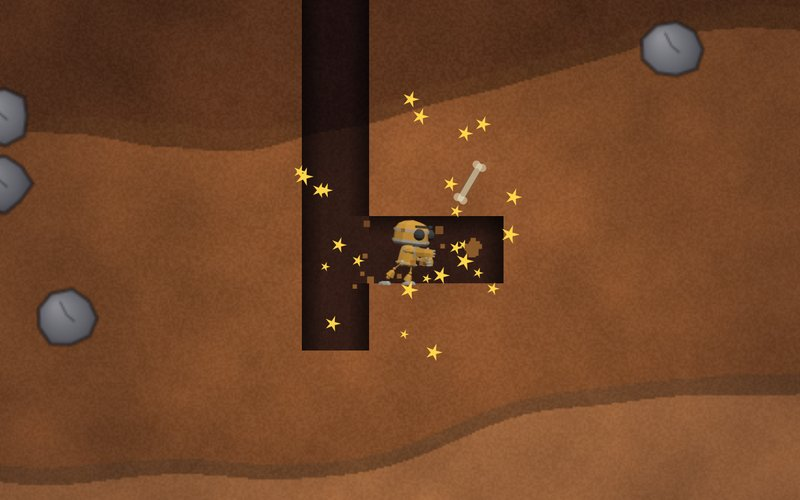
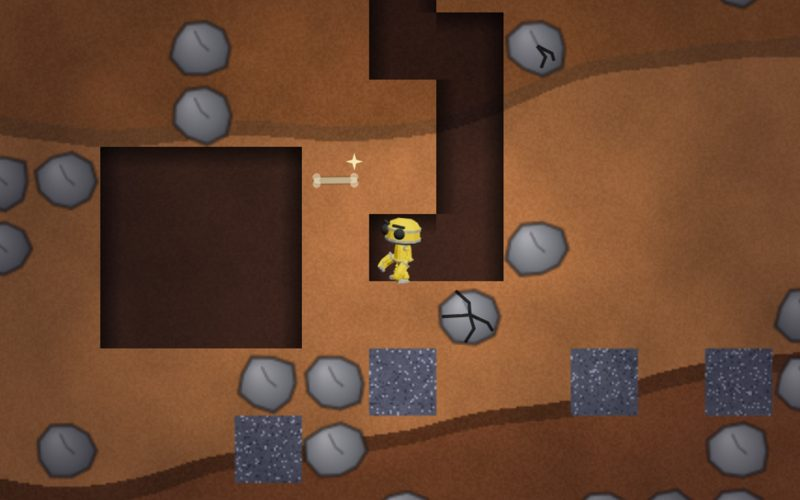
Forsiden: spillkortbildene for Era Defenders og Fossil Zoo viser EVN-roboten
Bildene er tatt fra robot/era (0.20.0, piratskipet) og robot/fossil (0.7.5).
Publiseres sammen med eller etter de to spillene.

Claude-Session: https://claude.ai/code/session_01MHiEAxRHCBG5ApPNUV1V1h

diff --git a/index.html b/index.html
@@ -389,7 +389,7 @@
       <!-- Nytt spill? Kopier et spillkort og bytt lenke, bilde, navn, stikkord og tekst. -->
       <a class="spillkort k-era inn" style="--i:0" href="spill/eventyrspill/">
         <div class="bilde">
-          <img src="bilder/eventyr-kort.jpg" alt="Skjermbilde fra Era Defenders: piratskipet med basen og Piratkapteinen">
+          <img src="bilder/eventyr-kort.jpg" alt="Skjermbilde fra Era Defenders: EVN-roboten med piratlue og sverd i basen på piratskipet">
           <span class="avspill" aria-hidden="true"></span>
         </div>
         <div class="tekst">
@@ -415,7 +415,7 @@
 
       <a class="spillkort k-fossil inn" style="--i:2" href="spill/fossilspillet/">
         <div class="bilde">
-          <img src="bilder/fossilspillet.jpg" srcset="bilder/fossilspillet.jpg 800w, bilder/fossilspillet-1200.jpg 1200w" sizes="(max-width: 680px) 100vw, 400px" alt="Skjermbilde fra Fossil Zoo: robot-graveren finner et fossilbein i en tunnel">
+          <img src="bilder/fossilspillet.jpg" srcset="bilder/fossilspillet.jpg 800w, bilder/fossilspillet-1200.jpg 1200w" sizes="(max-width: 680px) 100vw, 400px" alt="Skjermbilde fra Fossil Zoo: EVN-roboten graver seg fram til et fossilbein i en tunnel">
           <span class="avspill" aria-hidden="true"></span>
         </div>
         <div class="tekst">

diff --git a/ENDRINGSLOGG.md b/ENDRINGSLOGG.md
@@ -6,7 +6,7 @@ er små – se på retning over flere uker, ikke på enkeltdager.
 
 | Dato | Hva | Spill | Kan påvirke |
 |---|---|---|---|
-| ikke publisert | **Forsiden (forslag): EVN-roboten som maskot.** Liten robot ved «Velg et spill» som vinker to ganger første gang i økta (WebP-stripe 38 kB, av ved redusert bevegelse); roboten i stedet for gutten i «Hvem står bak?»; robothodet ved «Siste nytt». Logo og «Laget av barn. For barn.» er uendret. Startkortene i spillene er ikke endret. | Forside | Ingen forventet effekt |
+| ikke publisert | **Forsiden (forslag): EVN-roboten som maskot.** Liten robot ved «Velg et spill» som vinker to ganger første gang i økta (WebP-stripe 38 kB, av ved redusert bevegelse); roboten i stedet for gutten i «Hvem står bak?»; robothodet ved «Siste nytt». Logo og «Laget av barn. For barn.» er uendret. Startkortene endres i spillgrenene, ikke her. Spillkortbildene for Era Defenders og Fossil Zoo viser EVN-roboten (tatt fra robot/era og robot/fossil); publiseres sammen med eller etter de to spillene. | Forside | Ingen forventet effekt |
 | 2026-11-02 ca. 22:05 | **Nytt spill: Dyrepatruljen v0.10.3** (Evens spill, navnet valgt av Even, publisering godkjent av Ivar). 3D-spill der man sniker seg innpå og fanger dyr som har gått seg vill med håv, i 15 verdener med 10 dyr hver; dyrene flytter inn i en dyrepark med naturområder, tog og gangbro. Ny mappe `spill/dyrepatruljen/`, nytt spillkort på forsiden (fire kort: fire kolonner på store skjermer, to på mellomstore, «Nytt»-merket flyttet fra Fossil Zoo). Statistikk: ny oppdager `dyrepatruljen` i statistikk.js (start = klikk på `#startBtn`), hendelsene `start-dyrepatruljen` og `spilletid-dyrepatruljen-*`. Felles startkort, «Start helt på nytt» og «Vil du avslutte?» som i de andre spillene; egen pause (ikke felles pause med spilletid og 🗺-kart ennå). Lagringsnøkkel `evn-dyrespillet-v1`. Helten er RobotExpressive (Tomás Laulhé/Quaternius, CC0) og GLTFLoader (three.js, MIT), begge lagt inn i fila; three.js r128 fra `vendor/`. Testet med CSP og nettstedslag: 0 CSP-brudd, 0 konsollfeil, axe-core uten funn (spill og forside), GoatCounter-start fyrer, Avslutt spør først, gamle lagringer lastes, nullstill virker, PC og iPhone 13-emulering. Ikke testet på ekte mobil; dyreparken med alle 150 dyr kan være tung på svake telefoner. Commit 5feffb2. | Dyrepatruljen, forside, statistikk.js | Nye starter og spilletid for Dyrepatruljen; kan gi litt færre klikk på de tre andre spillene |
 | 2026-11-02 ca. 12:50 | **Fossil Zoo v0.7.3: graveren er roboten fra Mørkeskogen 2.0** (Evens ønske, godkjent av Ivar). Spritesett tatt av 3D-modellen «RobotExpressive» (Tomás Laulhé/Quaternius, CC0) med animasjoner for å stå, gå, grave, klatre og falle; lagt inn som data-URI (CSP tillater `img-src data:`). Bare tegningen av graveren er endret; spillmekanikk, lagring, lagringsnøkkel og statistikk er uendret. Nytt forsidebilde av Fossil Zoo med roboten. Commit 4dfe032. | Fossil Zoo, forside | Ingen forventet effekt; muligens litt flere starter av Fossil Zoo |
 | 2026-11-01 ca. 16:25 | **Era Defenders v0.19.0 (godkjent): vanskelighetsgrad, sluttkamp og seiersskjerm.** Valg av Lett (som før), Normal og Vanskelig på startkortet. Normal og Vanskelig: mindre liv tilbake per bølge, saktere mana, sterkere fiender per epoke, raske og skytende fiender, og fiendene spretter ikke unna når du slår. Livsdrikken drikkes av seg selv ved lavt liv (egen knapp fjernet). Sluttkamp mot Tidsherren i Tidsvirvelen, seiersskjerm og valget Fortsett/Ny runde. Gamle lagringer spiller videre på Lett, nye spillere starter på Normal. Commit a9d3f74. | Era Defenders | Kortere økter og flere omstarter i Normal; mulig flere starter etter seier (Ny runde) |
